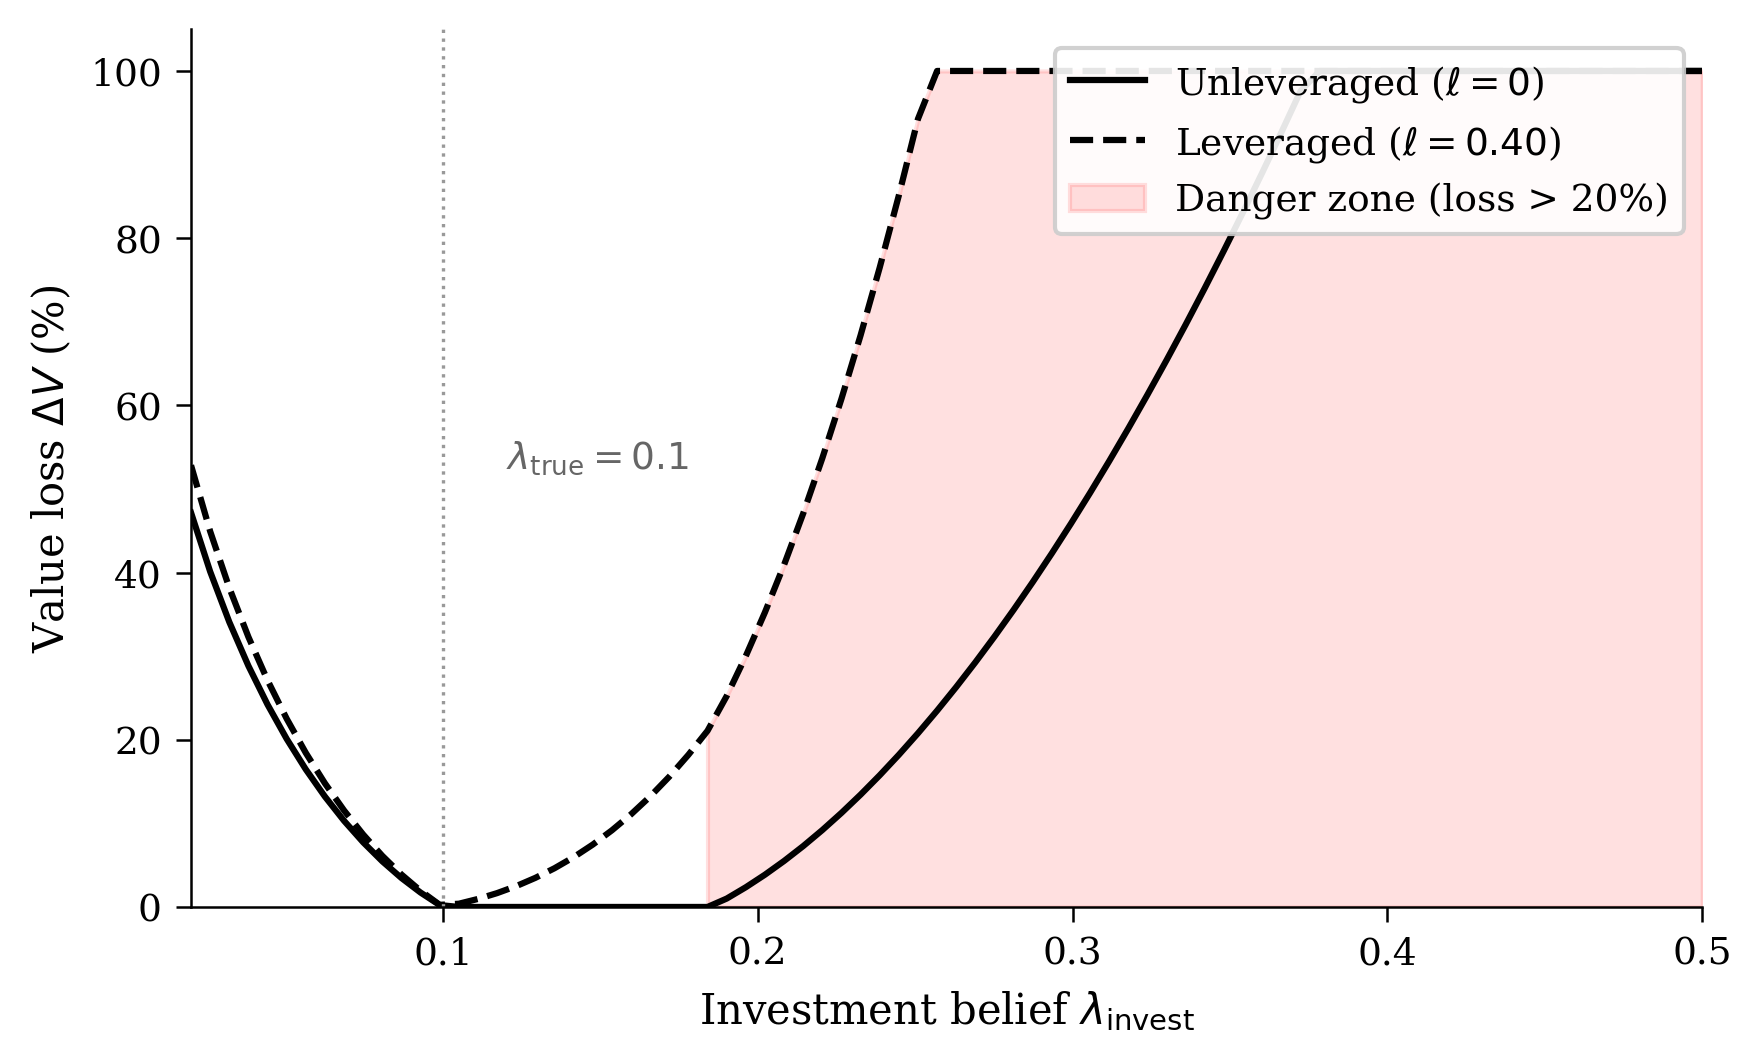
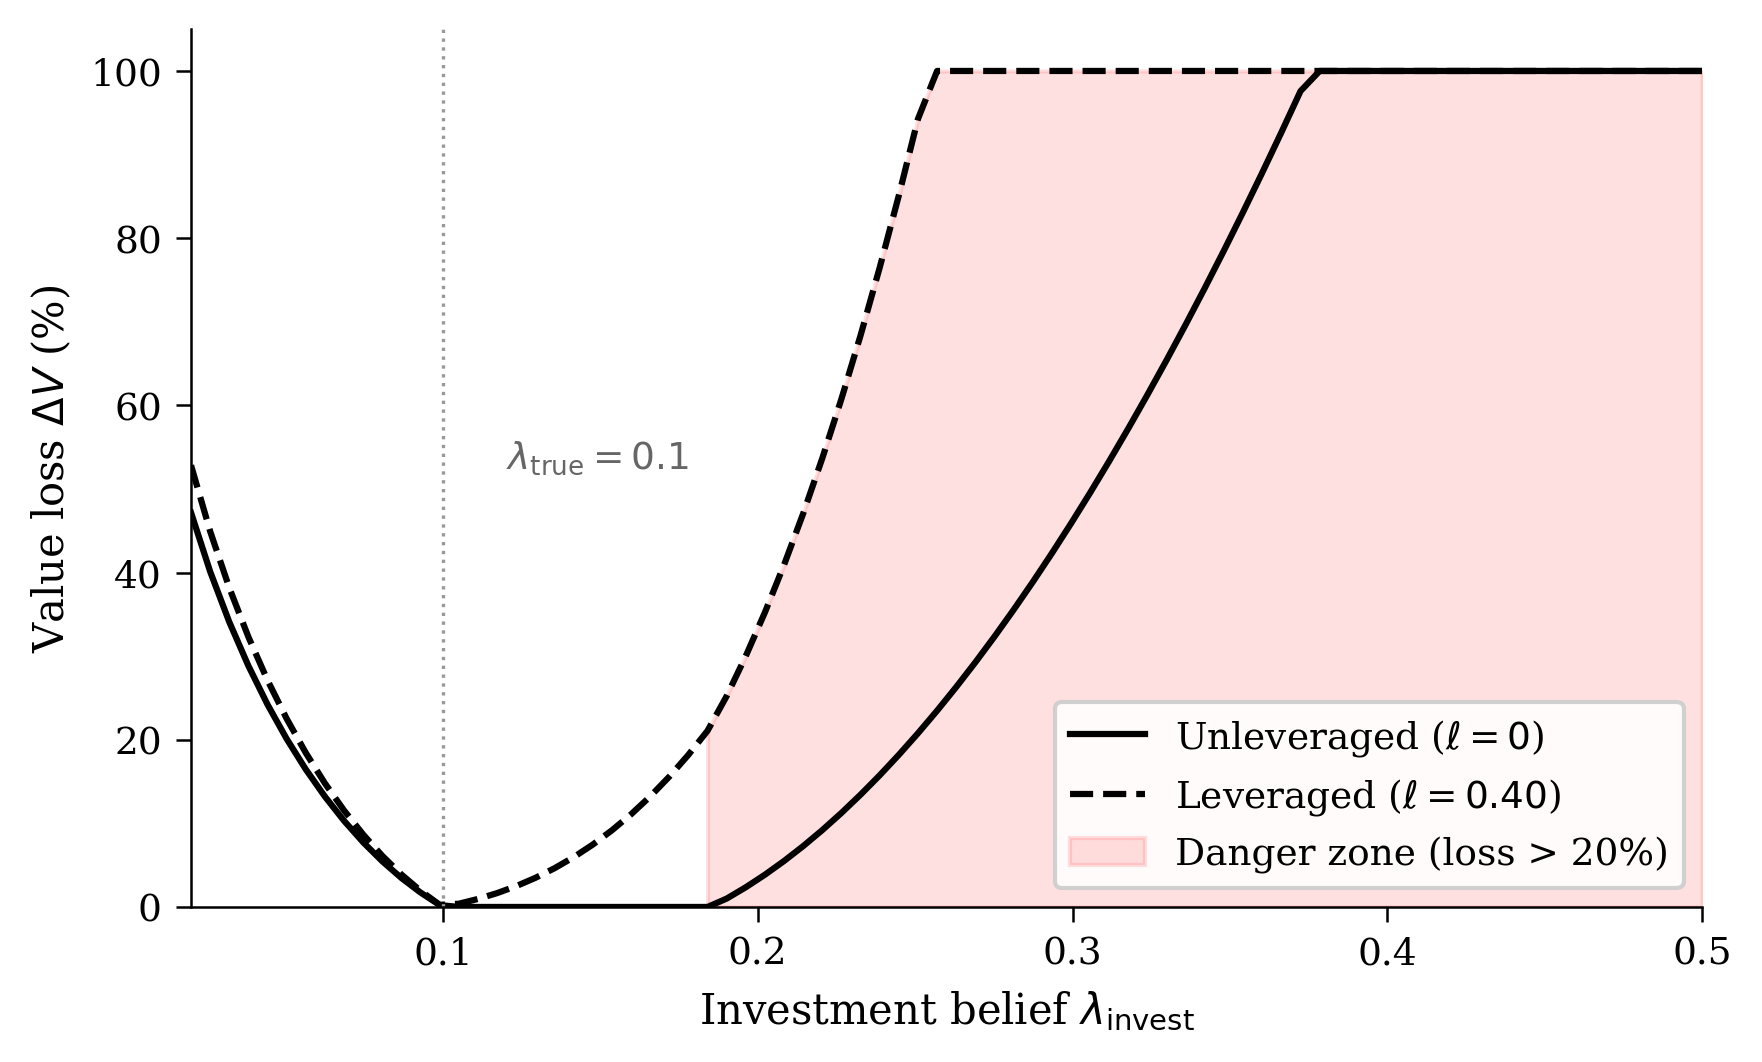
Move Fig 11 legend to bottom-right

Changed region(s): [[0.5931, 0.0311, 0.9677, 0.2486], [0.5931, 0.6525, 0.9677, 0.839]]

diff --git a/paper/generate_figures.py b/paper/generate_figures.py
@@ -730,7 +730,7 @@ def fig_investment_dilemma():
     # Place annotation after drawing to get correct y-axis limits
     ax.set_xlabel(r"Investment belief $\lambda_{\mathrm{invest}}$")
     ax.set_ylabel(r"Value loss $\Delta V$ (%)")
-    ax.legend(loc="upper right", fontsize=9, framealpha=0.9)
+    ax.legend(loc="lower right", fontsize=9, framealpha=0.9)
     ax.set_xlim(lam_range[0], lam_range[-1])
     ax.set_ylim(bottom=0)
     y_top = ax.get_ylim()[1]
